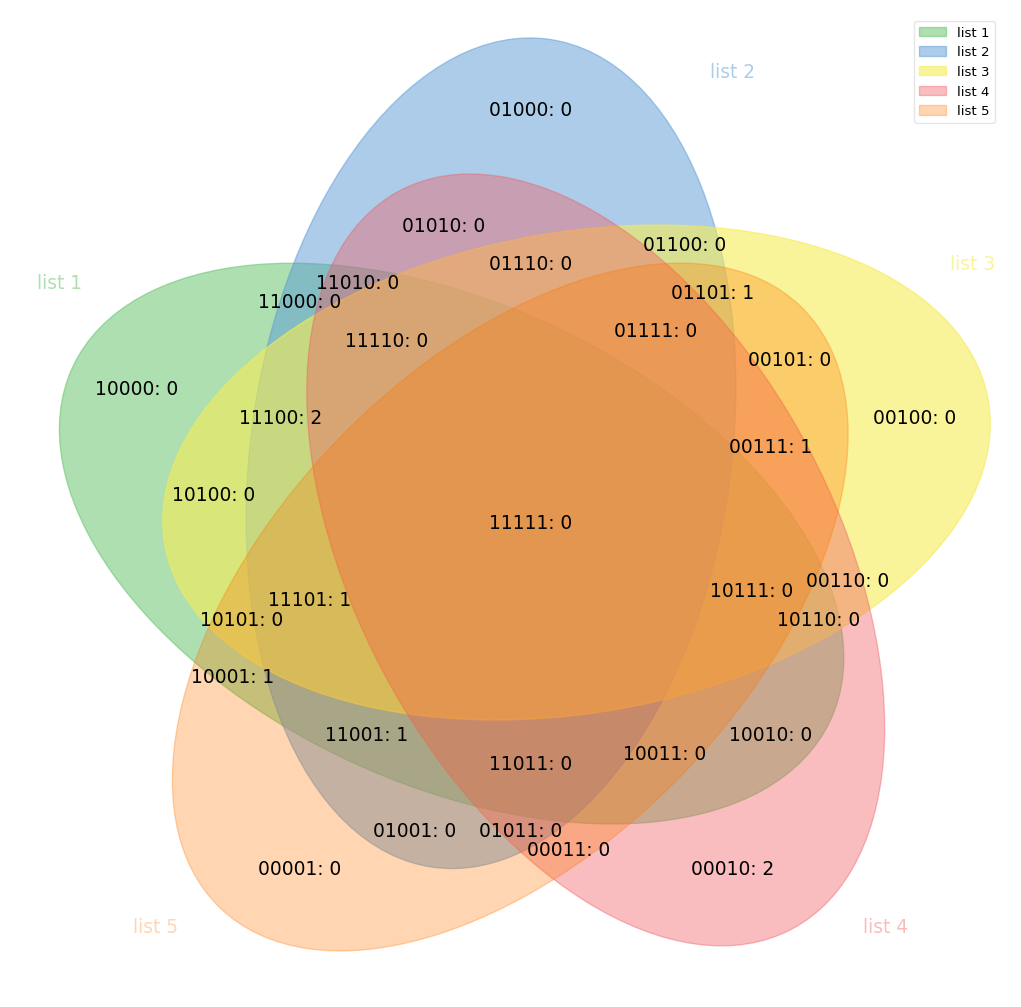
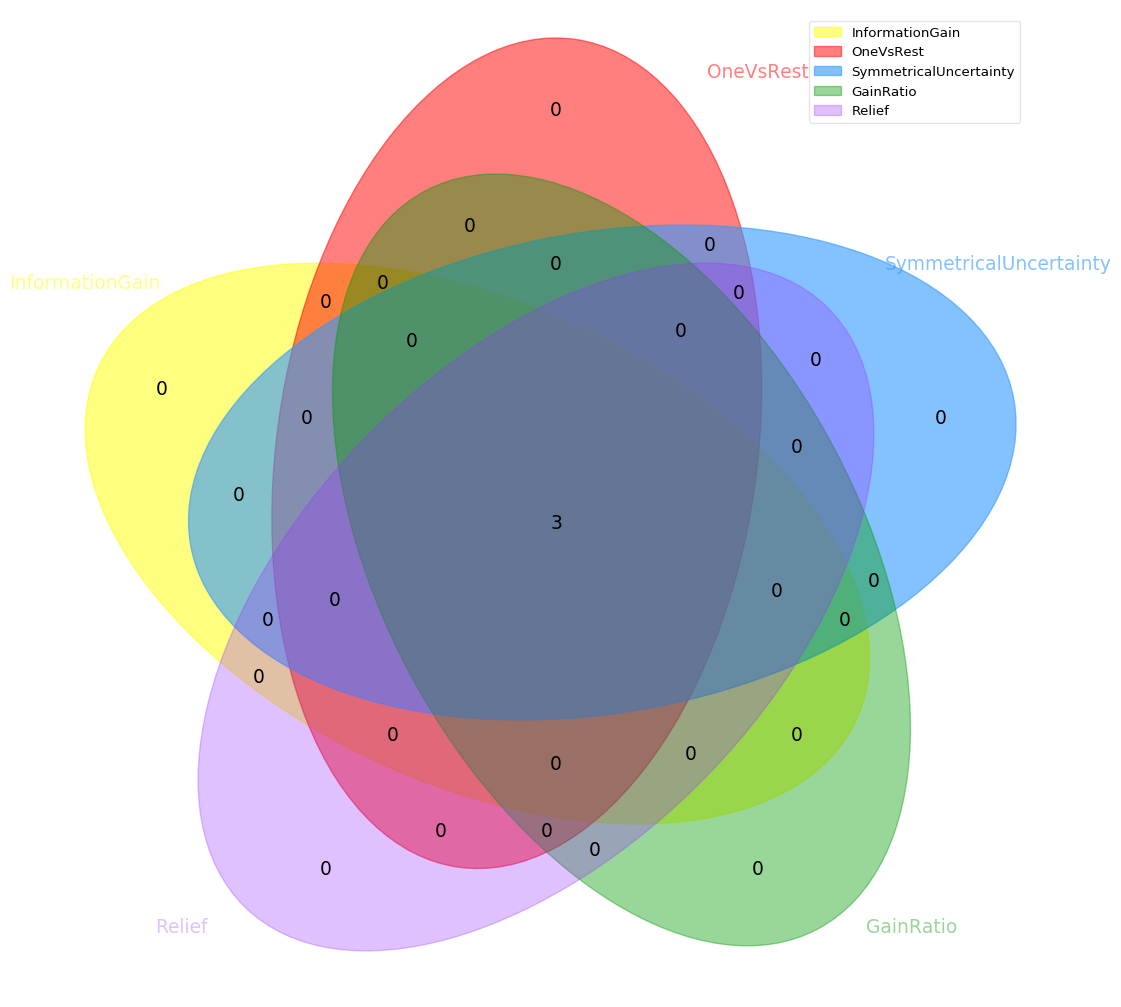
local all done

diff --git a/drawVenn2.py b/drawVenn2.py
@@ -1,0 +1,55 @@
+# -*- coding: utf-8 -*-
+#system ask for two argument: filename and number of topFeatures selected  
+import sys
+import os
+import matplotlib as mpl
+mpl.use('Agg')
+
+import matplotlib.pyplot as plt
+import venn
+
+
+# fname=sys.argv[1]
+# topFeature=sys.argv[2]
+fname="rawiris.arff"
+topFeature=3
+
+def getTopFeature(path):
+    f=open(path,"r")
+    myList=list()
+    for line in f:
+        splitList=line.split(" ")
+        if splitList[0]=="@ATTRIBUTE" or splitList[0]=="@attribute"  and "{" not in splitList[2]:
+            myList.append(splitList[1])
+    return myList[0:topFeature]
+
+fpath=os.path.join(os.getcwd(),fname)
+getTopFeature(fpath)
+outputFolder=os.path.join(os.getcwd(),"FeatureSelected")
+command="./RankFeature.sh "+fname+" "+outputFolder
+print "command： "+command
+os.system(command)
+flist=os.listdir(outputFolder)
+sets=list()
+labels=list()
+
+for f in flist:
+    fpath=os.path.join(os.getcwd(),outputFolder,f)
+    print fpath
+    set=getTopFeature(fpath)
+    sets.append(set)
+    label=os.path.basename(f).split(".")[0]
+    labels.append(label)
+    
+vennLabel=venn.get_labels(sets,fill=['number','logic'])
+vennLabel=venn.get_labels(sets,fill=['number'])
+fig, ax = venn.venn5(vennLabel, names=labels)
+fig.savefig('venn5.png', bbox_inches='tight')
+
+plt.close()
+
+
+
+        
+        
+    

diff --git a/main.py b/main.py
@@ -1,5 +1,5 @@
 import os
-
+import sys
 
 
 
@@ -11,12 +11,17 @@ import os
 # process the files (cv.py)
 
 # take in a file
-f=open("/home/lu/eclipse-workspace/LabTool/rawiris.csv","r")
-print f.name
 
-# label the attributes by their hashing
-import LabelAttributes as LA
-originHash=LA.hashList
+f=open(os.path.join(os.getcwd(),"rawiris.csv"),"r")
+f=open(os.path.join(os.getcwd(),"rawiris.csv"),"r")
+baseName=os.path.basename(f.name)
+commandString="python csvToarff.py "+baseName
+print commandString
+os.system(commandString)
+
+f=open(os.path.join(os.getcwd(),"rawiris.arff"),"r")
+
+
 
 outputFolder=os.path.join(os.getcwd(),"FeatureSelected")
 scriptPath=os.path.join(os.getcwd(),"RankFeature.sh")

diff --git a/venn.py b/venn.py
@@ -8,12 +8,12 @@ import math
 
 default_colors = [
     # r, g, b, a
-    [92, 192, 98, 0.5],
-    [90, 155, 212, 0.5],
-    [246, 236, 86, 0.6],
-    [241, 90, 96, 0.4],
-    [255, 117, 0, 0.3],
-    [82, 82, 190, 0.2],
+    [255, 255, 0, 0.5],
+    [255, 0, 0, 0.5],
+    [51, 153, 255, 0.6],
+    [0, 153, 0, 0.4],
+    [153, 51, 255, 0.3],
+    [102, 102, 153, 0.2],
 ]
 default_colors = [
     [i[0] / 255.0, i[1] / 255.0, i[2] / 255.0, i[3]]

diff --git a/csvToarff.py b/csvToarff.py
@@ -1,7 +1,10 @@
 import os
 from sets import Set
 from pydoc import classname
-path=os.path.join(os.getcwd(),"rawiris.csv")
+import sysconfig
+import sys
+
+path=os.path.join(os.getcwd(),sys.argv[1])
 f=open(path,"r")
 lines=f.readlines()
 f.close()
